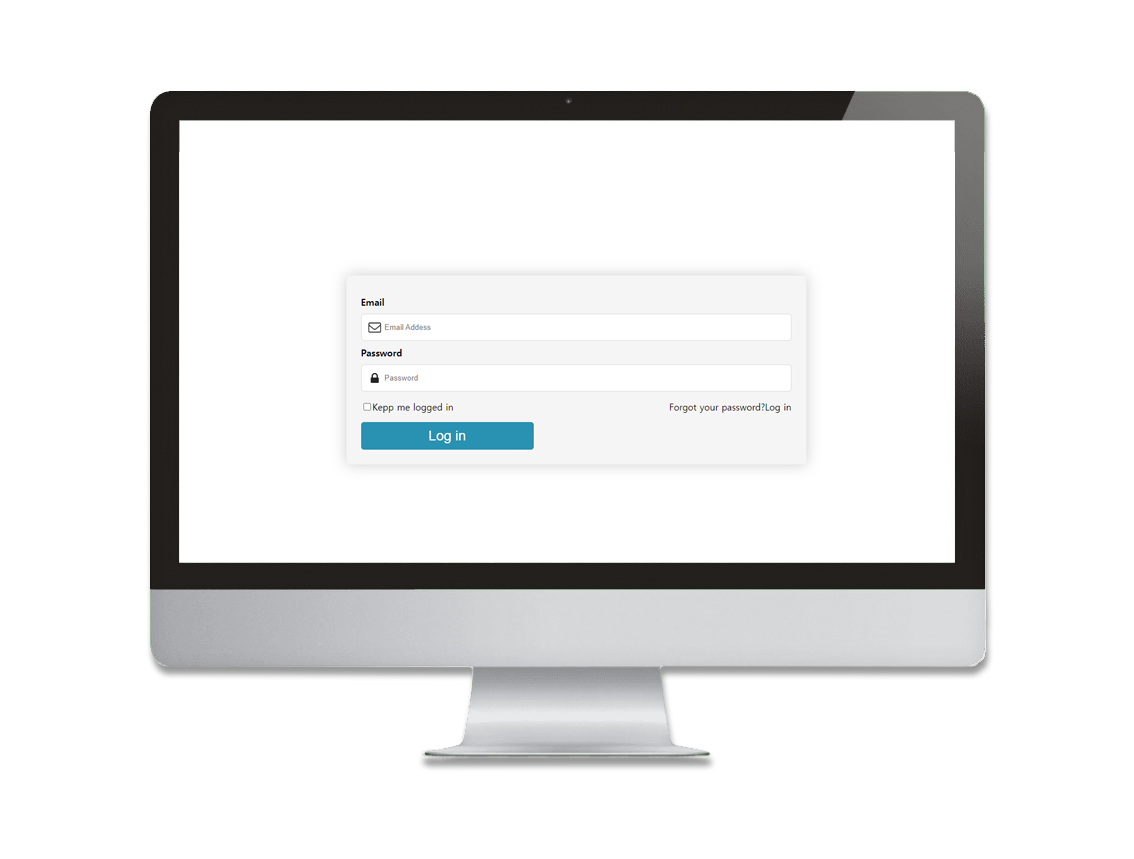
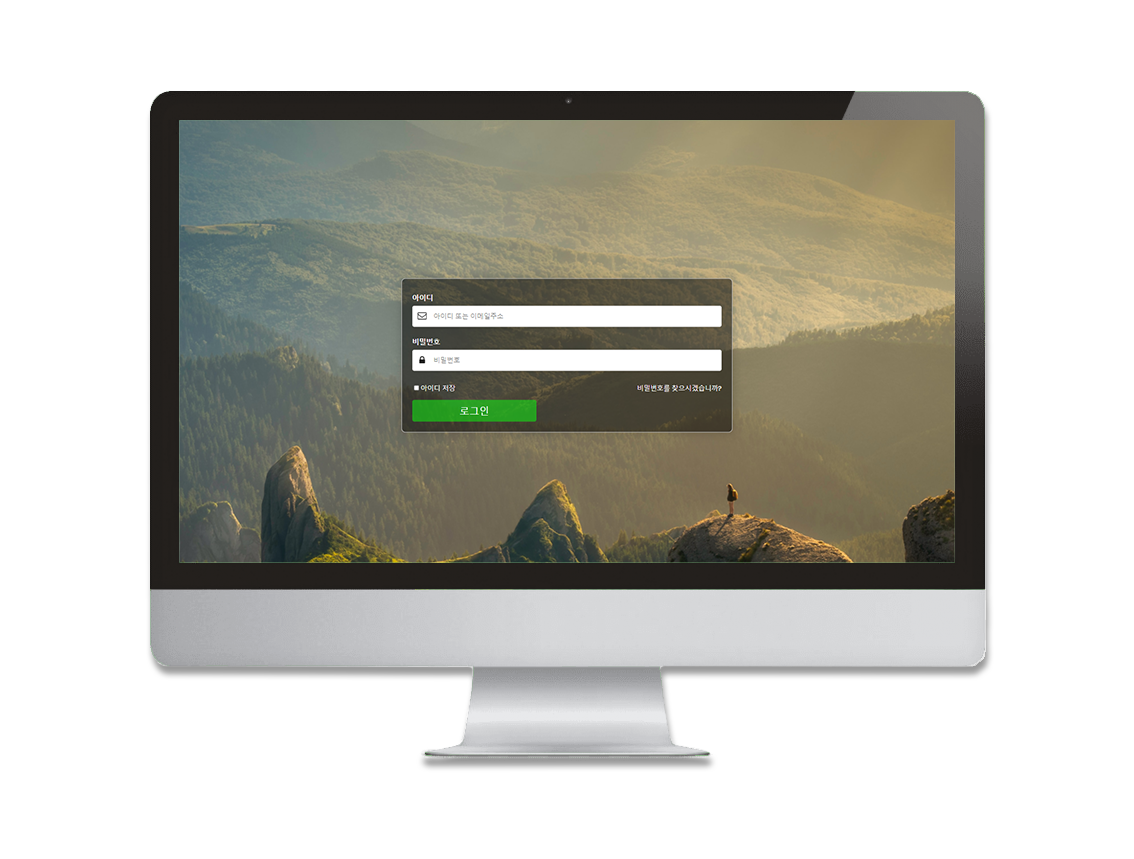
TIL

diff --git a/login/login.css b/login/login.css
@@ -1,0 +1,105 @@
+@import url("https://fonts.googleapis.com/css2?family=Nanum+Gothic:wght@400;700&display=swap");
+@import url("https://fonts.googleapis.com/css2?family=Poppins:wght@100;200;300;500&display=swap");
+* {
+  box-sizing: border-box;
+}
+a {
+  text-decoration: none;
+  color: black;
+}
+body {
+  font-family: "Poppins", sans-serif;
+  margin: 0;
+}
+section {
+  display: flex;
+  align-items: center;
+  justify-content: center;
+  width: 100%;
+  height: 100vh;
+  background: url(imgs/bg_01.png) no-repeat center center;
+  background-size: cover;
+}
+
+.login {
+  width: 800px;
+  background-color: rgba(0, 0, 0, 0.5);
+  border: 1px solid #eee;
+  border-radius: 5px;
+  padding: 25px;
+  box-shadow: 0 0 25px rgba(0, 0, 0, 0.2);
+  margin: 0 20px;
+}
+.login span {
+  font-family: "Nanum Gothic", sans-serif;
+  display: block;
+  margin: 10px 0;
+  font-size: 18px;
+  color: rgb(255, 255, 255);
+  font-weight: bold;
+}
+.login input[type="email"],
+.login input[type="password"] {
+  width: 100%;
+  padding: 15px;
+  border: 1px solid #ddd;
+  border-radius: 5px;
+  transition: 0.2s;
+  padding-left: 50px;
+  font-size: 16px;
+  margin-bottom: 15px;
+  font-weight: 300;
+}
+.login input[type="email"]:hover,
+.login input[type="password"]:hover {
+  box-shadow: 0 0 5px rgb(20, 220, 20);
+}
+
+.login input[type="email"]::placeholder,
+.login input[type="password"]::placeholder {
+  opacity: 1;
+  transition: 0.3s;
+}
+.login input[type="email"]:focus::placeholder,
+.login input[type="password"]:focus::placeholder {
+  opacity: 0;
+  /* 존재자체도 사라지게함 */
+  visibility: hidden;
+}
+
+.login input[type="email"] {
+  background: white url(imgs/icon-email.png) no-repeat center left 10px;
+}
+.login input[type="password"] {
+  background: white url(imgs/icon-lock.png) no-repeat center left 10px;
+}
+.login p {
+  /* 자식요소가 float를 가지면 부모요소 p는 높이 값을 잃어 버린다 그래서  overflow: hidden 해줘야한다 */
+  overflow: hidden;
+}
+.login p label {
+  float: left;
+  cursor: pointer;
+  color: white;
+}
+.login p a {
+  float: right;
+  color: white;
+}
+.login p a:hover {
+  text-decoration: underline;
+}
+.login button {
+  background-color: rgba(20, 220, 20, 0.6);
+  color: white;
+  width: 300px;
+  padding: 10px;
+  border-radius: 5px;
+  border: none;
+  cursor: pointer;
+  font-size: 24px;
+  transition: 0.2s;
+}
+.login button:hover {
+  background-color: rgb(20, 220, 20);
+}

diff --git a/index.html b/index.html
@@ -251,7 +251,7 @@
             <div class="project__description">
               <h3>Picture Menu</h3>
               <p>
-                메뉴를 호버하면 각 메뉴의 의미마다 <br> 배경이미지가 변함
+                메뉴를 호버하면 각 메뉴의 의미마다 배경이미지가 변함
               </p>
               <div class="btns">
                 <div class="btn" onclick="window.open('./hoverchange/index.html')">
@@ -272,21 +272,11 @@
                 이벤트나 관련소식등 정보전달과 상품구매등의 이익창출
               </p>
               <div class="btns">
-                <div class="btn" onclick="window.open('http://naver.com')">
+                <div class="btn" onclick="window.open('./login/index.html')">
                   web
                 </div>
-                <div class="btn" onclick="window.open('http://naver.com')">
+                <div class="btn" onclick="window.open('./login/index.html','모바일전용','width=500,height=860,top=100,left=300,scrollbars=no,resizable=no')">
                   mobile
-                </div>
-                <!-- more detail - btn -->
-                <div class="btn">
-                  <a
-                    href="otherworks/detail_01.html"
-                    class="detail-btn"
-                    data-featherlight="iframe"
-                  >
-                    REPORT
-                  </a>
                 </div>
               </div>
             </div>

diff --git a/login/index.html b/login/index.html
@@ -1,0 +1,25 @@
+<!DOCTYPE html>
+<html lang="en">
+  <head>
+    <meta charset="UTF-8" />
+    <meta http-equiv="X-UA-Compatible" content="IE=edge" />
+    <meta name="viewport" content="width=device-width, initial-scale=1.0" />
+    <link rel="stylesheet" href="login.css" />
+    <title>Document</title>
+  </head>
+  <body>
+    <section>
+      <form class="login">
+        <span>아이디</span>
+        <input type="email" placeholder="아이디 또는 이메일주소" />
+        <span>비밀번호</span>
+        <input type="password" placeholder="비밀번호" />
+        <p>
+          <label> <input type="checkbox" />아이디 저장</label>
+          <a href="#">비밀번호를 찾으시겠습니까?</a>
+        </p>
+        <button>로그인</button>
+      </form>
+    </section>
+  </body>
+</html>

diff --git a/hoverchange/index.html b/hoverchange/index.html
@@ -12,16 +12,16 @@
     <div class="container">
       <h1>:MINSHOP</h1>
       <ul class="navi">
-        <li data-image="images/portrait-01.jpg">
+        <li data-image="images/portrait-01.png">
           <a href="#" data-text="Top">Top</a>
         </li>
-        <li data-image="images/portrait-02.jpg">
+        <li data-image="images/portrait-02.png">
           <a href="#" data-text="Pant">Pant</a>
         </li>
-        <li data-image="images/portrait-03.jpg">
+        <li data-image="images/portrait-03.png">
           <a href="#" data-text="Onepiece">Onepiece</a>
         </li>
-        <li data-image="images/portrait-04.jpg">
+        <li data-image="images/portrait-04.png">
           <a href="#" data-text="Accessories">Accessories</a>
         </li>
       </ul>
